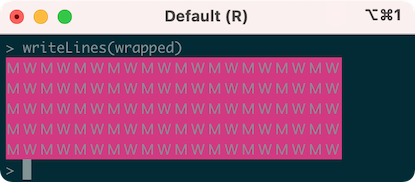
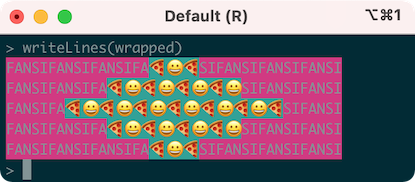
tweak readme

Changed region(s): [[0.0, 0.3022, 0.8386, 0.9066]]

diff --git a/README.md b/README.md
@@ -88,32 +88,24 @@ Width Based Substrings
 ----------------------
 
 `fansi` also includes improved versions of some of those functions, such
-as `substr2_ctl` which allows for width based substrings:
+as `substr2_ctl` which allows for width based substrings. We can see
+this below where the 2-wide emoji are combined seamlessly with the
+1-wide “FANSI” background.
 
-    "\uFF2D" # Full Width M
-    ## [1] "Ｍ"
-    nchar("\uFF2D", type='width')
-    ## [1] 2
-    "\uFF37" # Full Width W
-    ## [1] "Ｗ"
-    nchar("\uFF37", type='width')
-    ## [1] 2
-    raw <- strrep("\uFF2D\uFF37", 50)
-    wrapped <- strwrap2_ctl(paste0("\033[45m", raw), 41, wrap.always=TRUE)
-
-![](https://raw.githubusercontent.com/brodieG/fansi/rc/extra/images/wrapped-1.png)
-
-    pizza.grin <- strrep(sprintf("\033[46m%s\033[m", "\U1F355\U1F600"), 3)
+    raw <- paste0("\033[45m", strrep("FANSI", 40))
+    wrapped <- strwrap2_ctl(raw, 41, wrap.always=TRUE)
+    pizza.grin <- sprintf("\033[46m%s\033[m", strrep("\U1F355\U1F600", 10))
 
 ![](https://raw.githubusercontent.com/brodieG/fansi/rc/extra/images/pizza-grin.png)
 
-    pg.width <- nchar_ctl(pizza.grin, type='width')
-    substr2_ctl(wrapped, type='width', 15, 15 + pg.width - 1) <- pizza.grin
+    starts <- c(18, 13, 8, 13, 18)
+    ends <-   c(23, 28, 33, 28, 23)
+    substr2_ctl(wrapped, type='width', starts, ends) <- pizza.grin
 
-![](https://raw.githubusercontent.com/brodieG/fansi/rc/extra/images/wrapped-2.png)
+![](https://raw.githubusercontent.com/brodieG/fansi/rc/extra/images/wrapped-1.png)
 
-`fansi` width calculations account for graphemes, including combining
-emoji:
+`fansi` width calculations use heuristics to account for graphemes,
+including combining emoji:
 
     emo <- c(
       "\U1F468",
